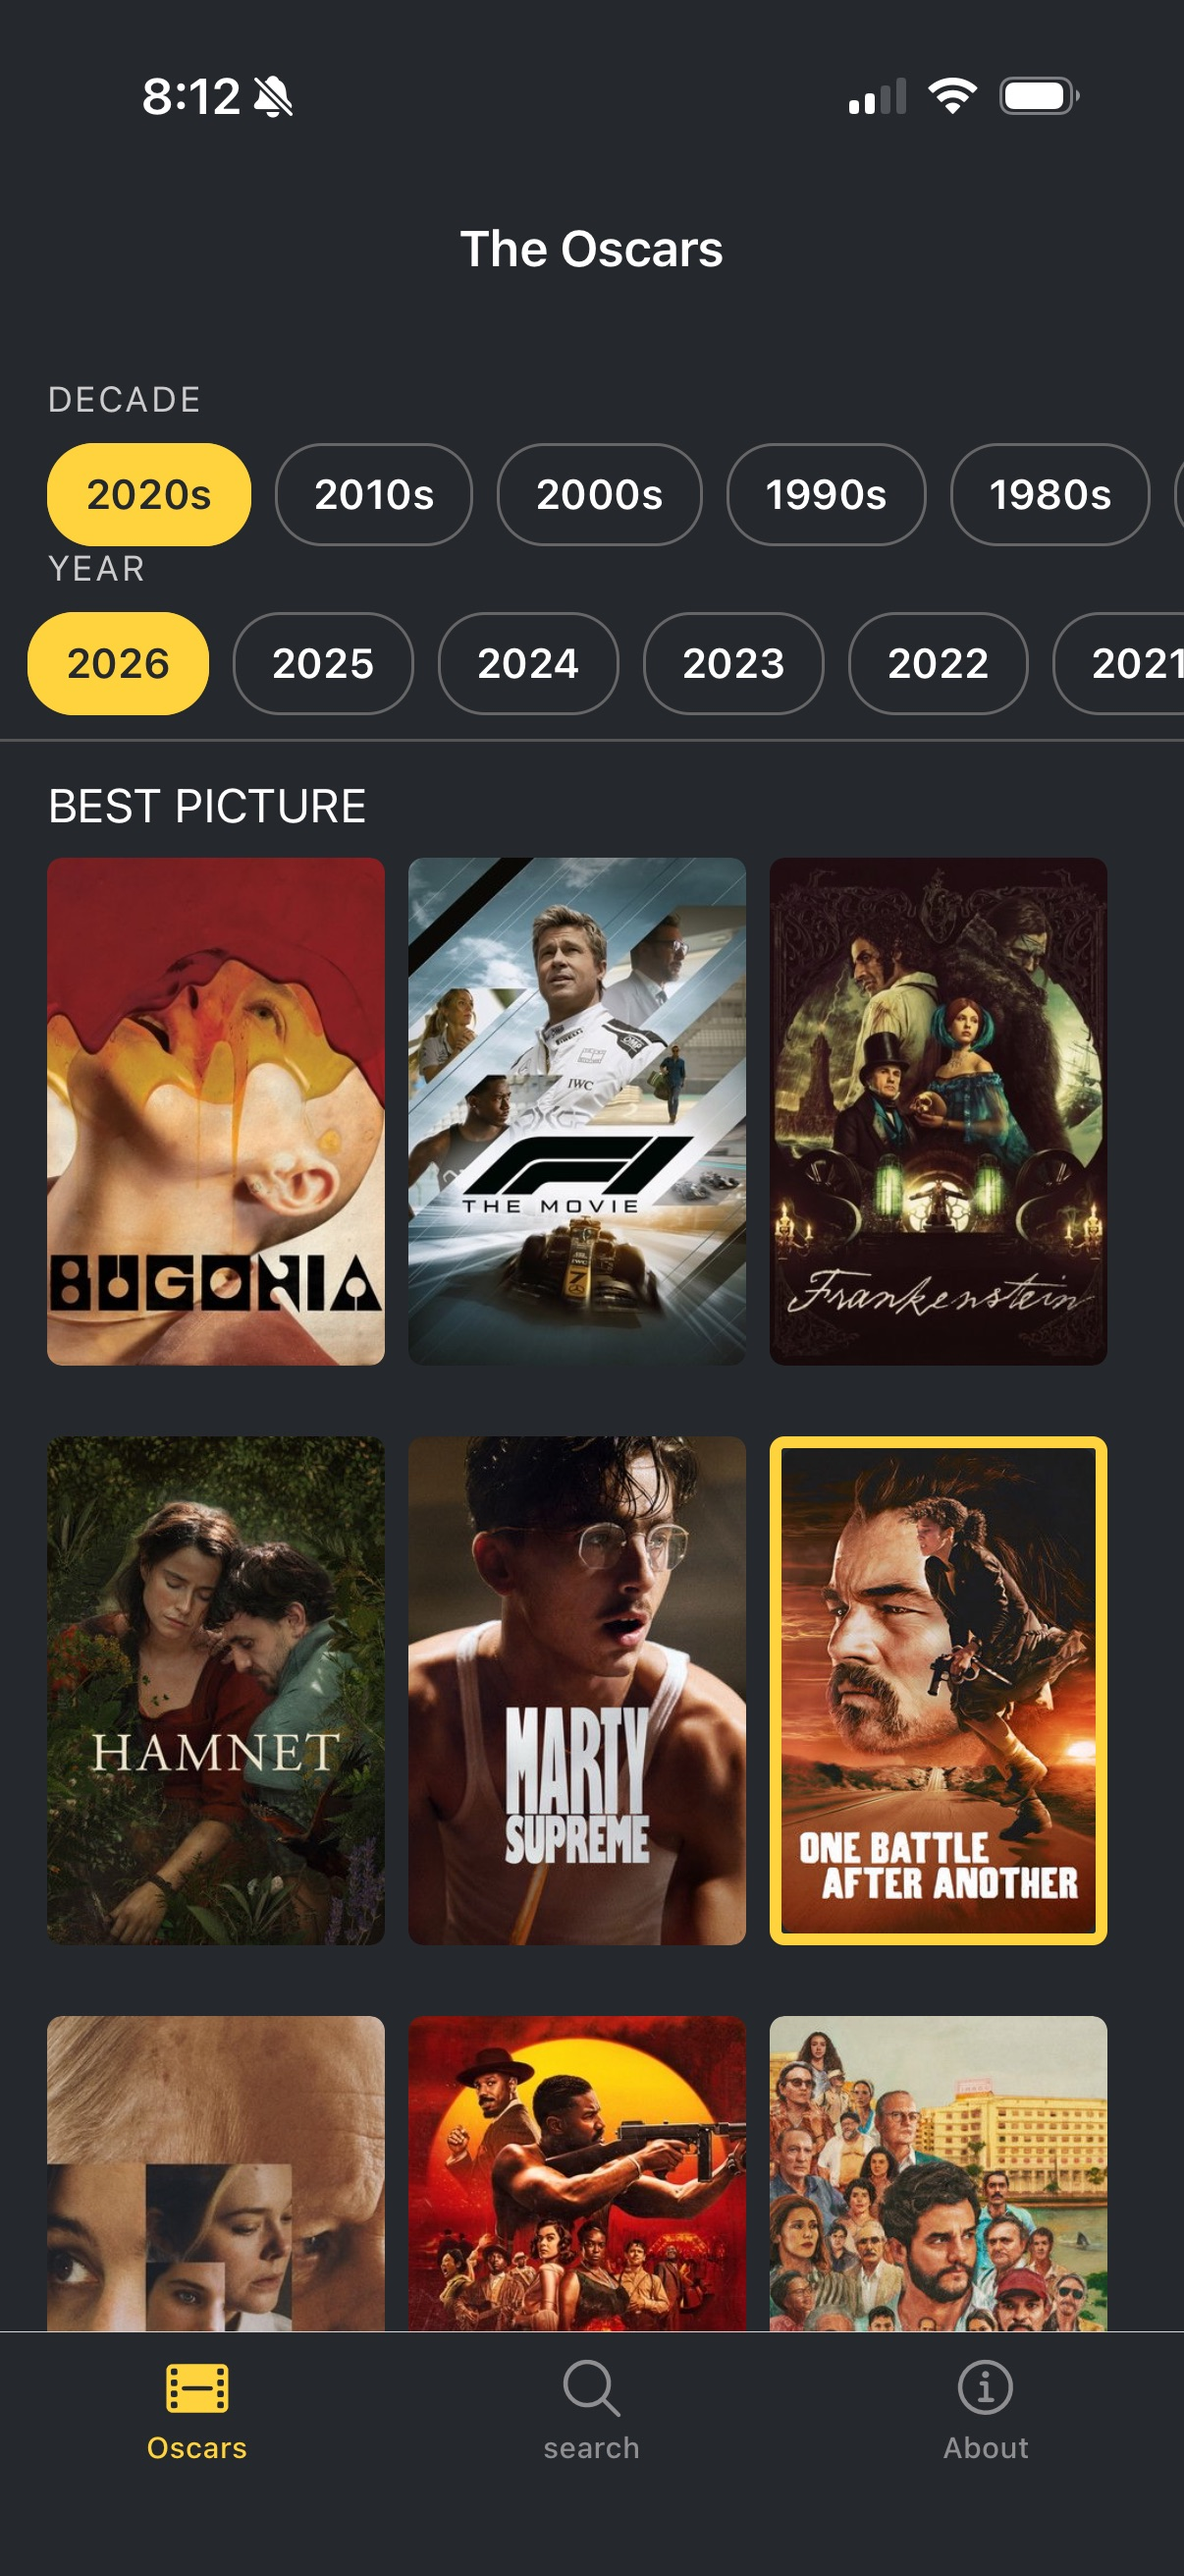
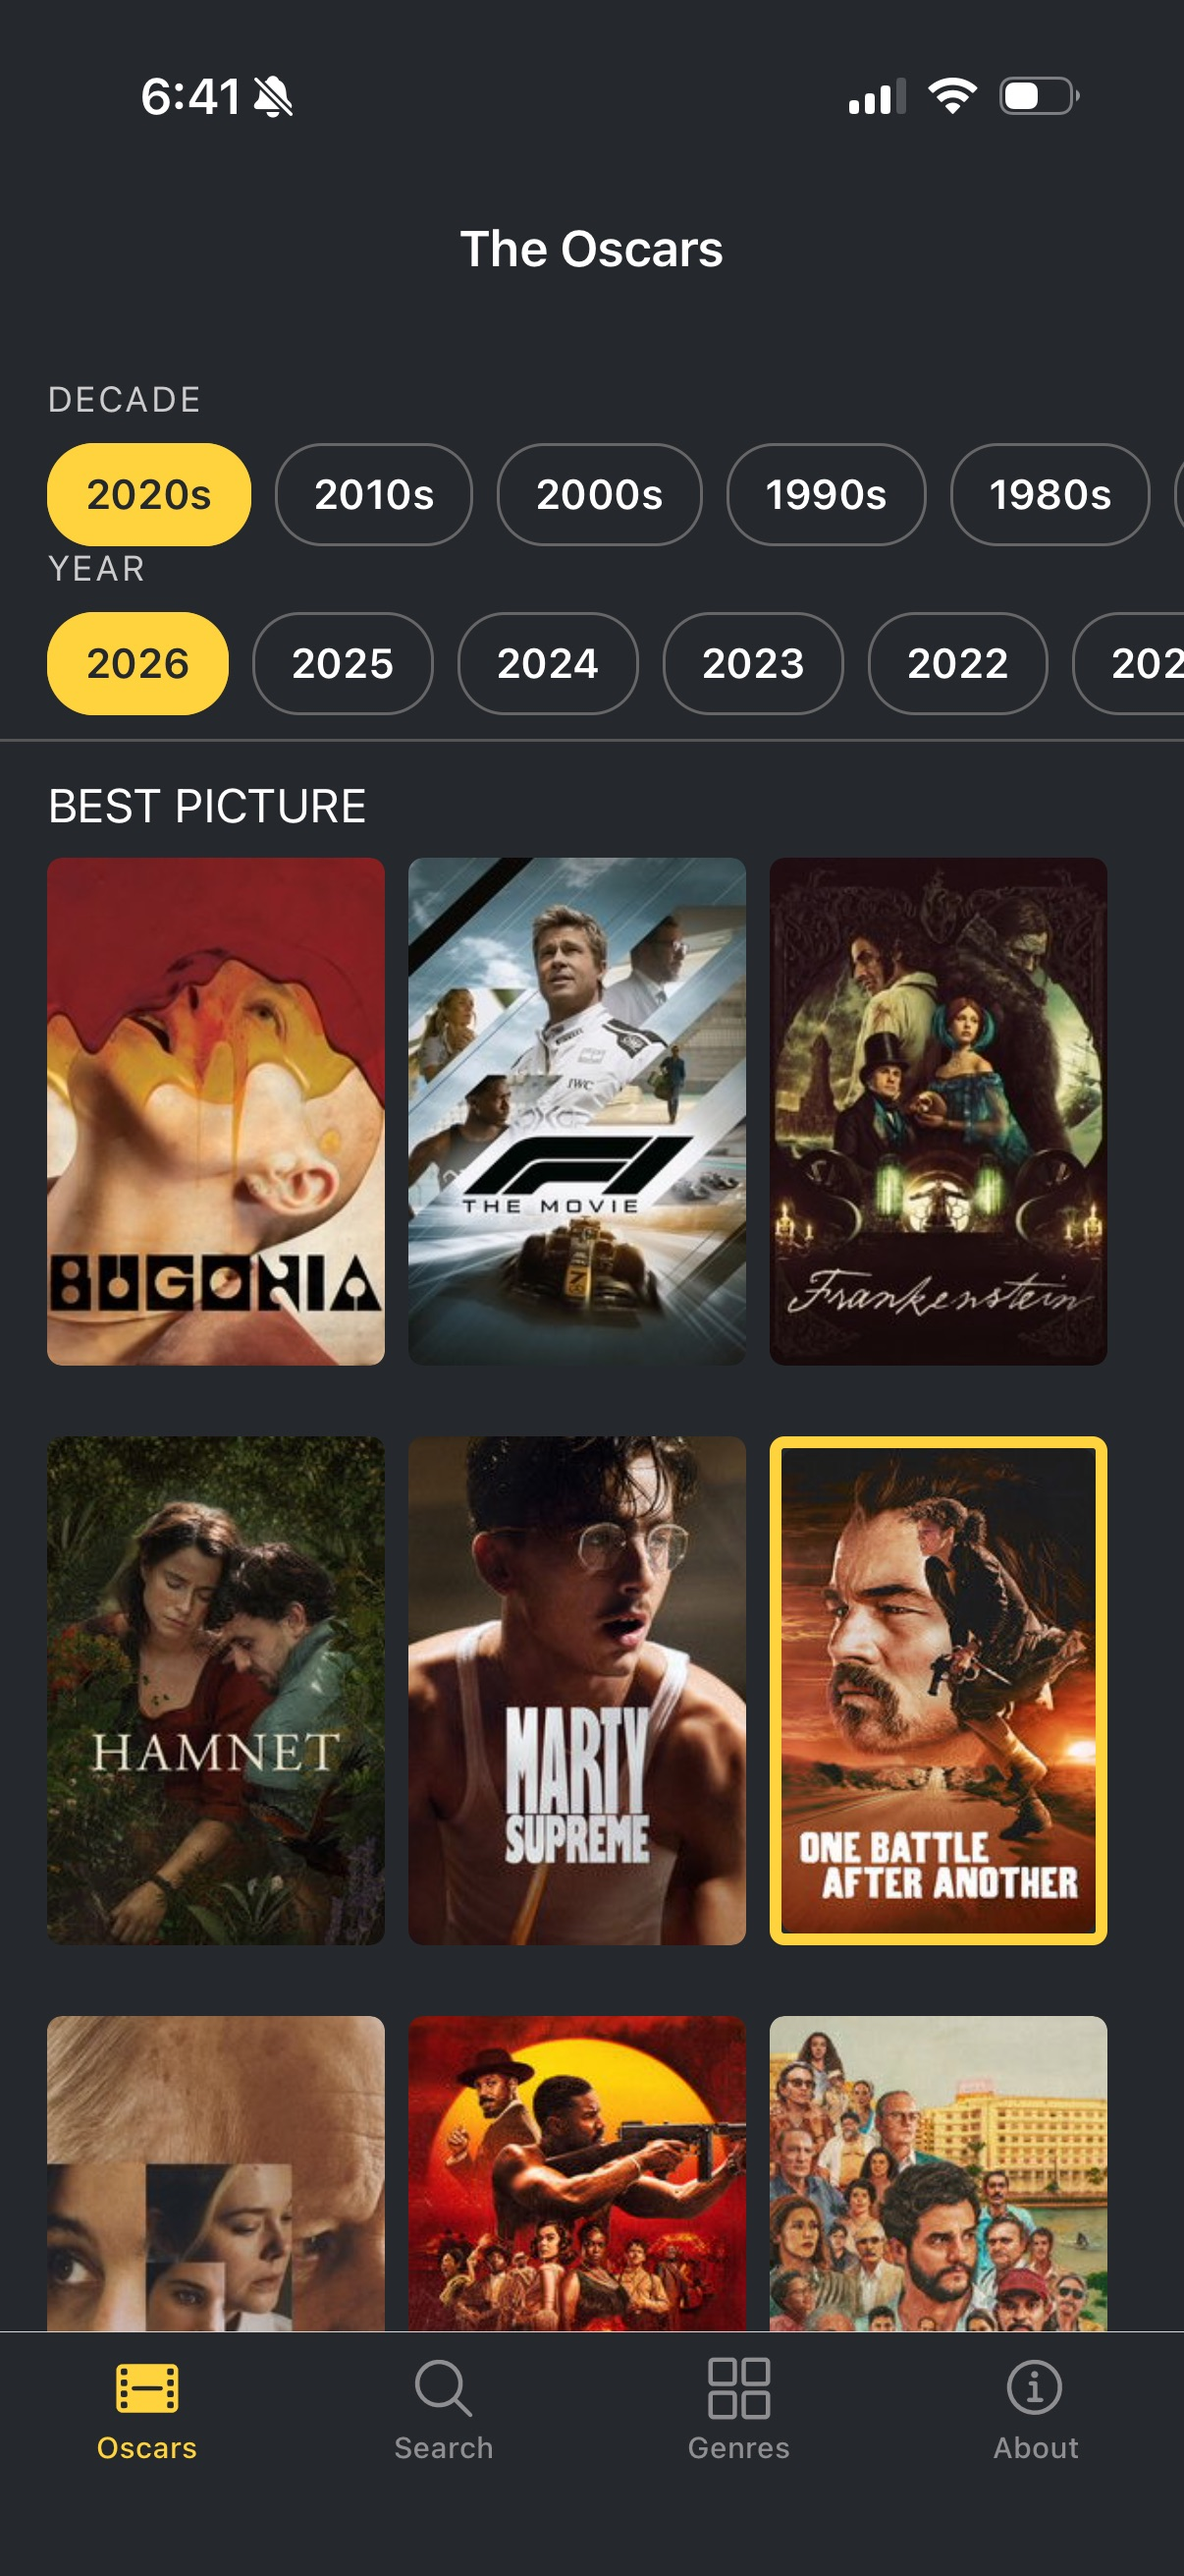
Updated readme + new app images

diff --git a/README.md b/README.md
@@ -4,18 +4,17 @@ Oscar Movies is an Expo-based mobile application for exploring Oscar-nominated f
 
 ## Overview
 
-Oscar Movies is designed as a lightweight, offline-friendly reference app for Academy Awards exploration. Users can browse nominees by ceremony year, search across films and people, open detailed profile screens, and review nomination history without depending on a live backend for core app functionality.
-
-The experience is built around quick navigation, clear presentation, and locally bundled data, with TMDB artwork used to enrich film and person detail views.
+Oscar Movies is designed as a lightweight, offline-friendly reference app for Academy Awards exploration. Users can browse nominees by ceremony year or genre, explore year and genre posterwalls for visual discovery, search across films and people with an elegant collapsing header interface, and open detailed profile screens with easy navigation controls. All core app functionality works offline with a locally bundled SQLite database, with TMDB artwork used to enrich film and person detail views.
 
 ## Core Features
 
-- Browse Oscar nomination categories by year
-- Explore nominated films across Academy Award categories
-- Search films by title and people by name
-- Open detailed film pages with artwork, credits, and nomination summaries
+- Browse Oscar nomination categories by year with visual year posterwall
+- Explore films by genre with visual genre browsing
+- Search films by title and people by name with collapsing header effect
+- Open detailed film pages with artwork, credits, nomination summaries, and Oscar trophy badges
 - Open person pages with biography details, related films, and nomination totals
 - Review nomination history for both films and people
+- Improved navigation with close buttons on all detail views for seamless multi-view exploration
 - Use a bundled local SQLite database for a fast, offline-friendly experience
 
 ## Technology Stack
@@ -38,7 +37,7 @@ The experience is built around quick navigation, clear presentation, and locally
   <img src="assets/images/app/Person%20Detail.jpeg" width="24%" alt="Person Detail — biography, films, and awards summary" />
   <img src="assets/images/app/Film%20Detail%202.jpeg" width="24%" alt="Ballerina Detail — biography, films, and awards summary" />
   <img src="assets/images/app/Person%20Search.jpeg" width="24%" alt="Person Search — biography, films, and awards summary" />
-  <img src="assets/images/app/About.jpeg" width="24%" alt="About — app summary and technology stack" />
+  <img src="assets/images/app/Poster Wall.jpeg" width="24%" alt="Movies by Genre - poster wall of films" />
 </p>
 
 ## Getting Started
